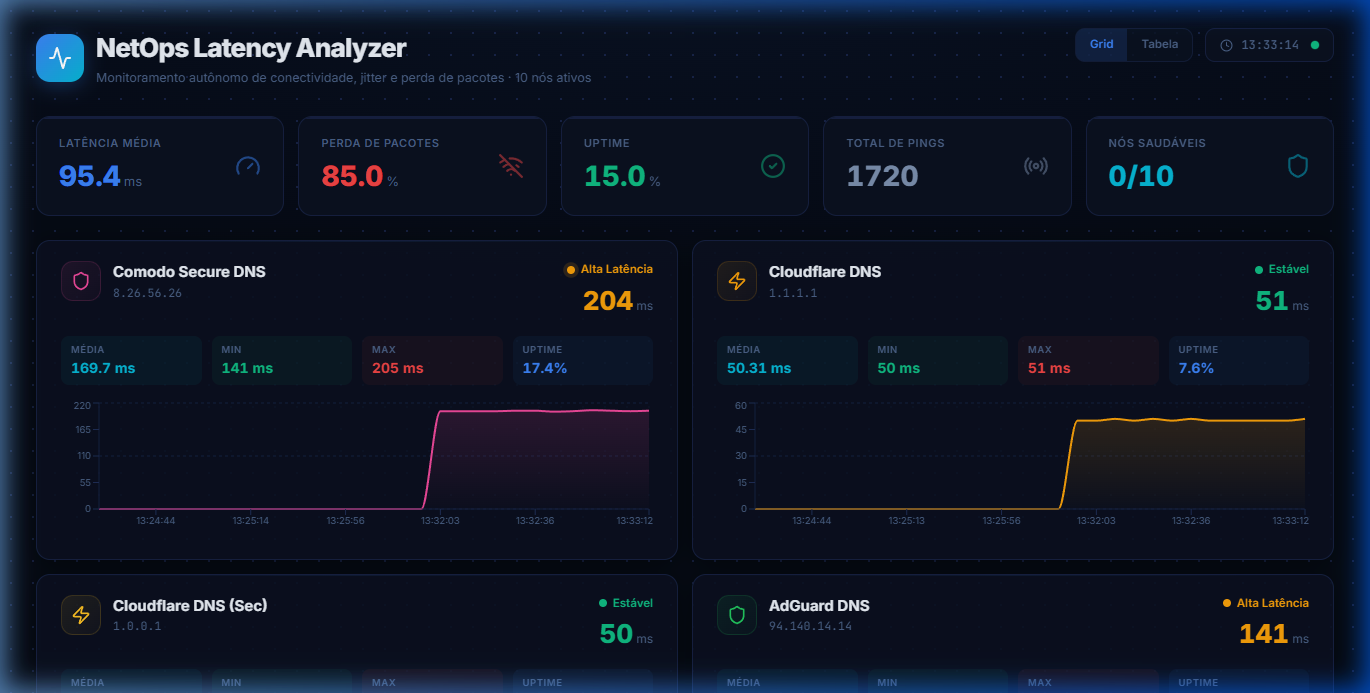
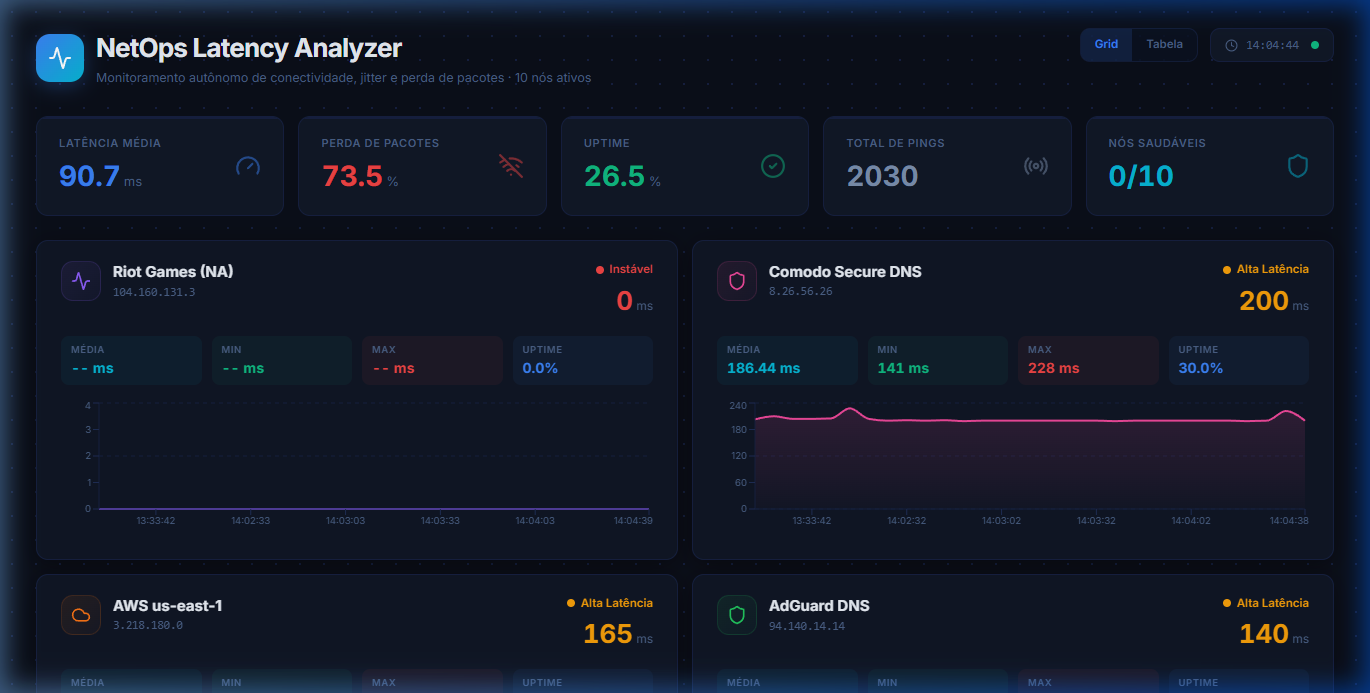
fix: screenshot limpo sem borda de janela

diff --git a/frontend/src/index.css b/frontend/src/index.css
@@ -1,34 +1,37 @@
-@import url('https://fonts.googleapis.com/css2?family=Inter:wght@300;400;500;600;700;800;900&family=JetBrains+Mono:wght@400;500;600&display=swap');
+@import url('https://fonts.googleapis.com/css2?family=Roboto+Mono:wght@400;500;600&family=Inter:wght@400;500;600;700&display=swap');
 @import "tailwindcss";
 
 /* ===========================================
-   NetOps Latency Analyzer — "Mission Control" Design System
-   Deep blue cybernetic monitoring, inspired by Datadog & Grafana
+   NetOps Latency Analyzer — "Beautifully Human" Monitoring Tool
+   Premium, data-dense, crisp typography, inspired by high-end dev tools
    =========================================== */
 
 @theme {
-  --color-bg: #050a14;
-  --color-panel: #0a1120;
-  --color-panel-hover: #0f1830;
-  --color-surface: #111d33;
+  --color-bg: #0b0f19;
+  /* Deep cool dark */
+  --color-panel: #111827;
+  --color-panel-elevated: #1f2937;
+
   --color-border: #162040;
   --color-border-hover: #1e2d55;
-  --color-text-main: #e8edf5;
-  --color-text-muted: #7b8fad;
-  --color-text-subtle: #4a6085;
+
+  --color-text-main: #f8fafc;
+  --color-text-muted: #94a3b8;
+  --color-text-subtle: #64748b;
+
   --color-accent: #3b82f6;
-  --color-accent-soft: rgba(59, 130, 246, 0.12);
-  --color-cyan: #06b6d4;
-  --color-cyan-soft: rgba(6, 182, 212, 0.1);
+  --color-accent-soft: rgba(59, 130, 246, 0.15);
+
   --color-success: #10b981;
-  --color-success-soft: rgba(16, 185, 129, 0.1);
   --color-warning: #f59e0b;
-  --color-warning-soft: rgba(245, 158, 11, 0.1);
   --color-danger: #ef4444;
-  --color-danger-soft: rgba(239, 68, 68, 0.1);
 }
 
-* { margin: 0; padding: 0; box-sizing: border-box; }
+* {
+  margin: 0;
+  padding: 0;
+  box-sizing: border-box;
+}
 
 body {
   font-family: 'Inter', -apple-system, sans-serif;
@@ -38,105 +41,181 @@ body {
   min-height: 100vh;
 }
 
-.font-mono { font-family: 'JetBrains Mono', monospace; }
+.font-mono {
+  font-family: 'Roboto Mono', monospace;
+}
 
-::-webkit-scrollbar { width: 6px; height: 6px; }
-::-webkit-scrollbar-track { background: transparent; }
-::-webkit-scrollbar-thumb { background: var(--color-border); border-radius: 3px; }
-::-webkit-scrollbar-thumb:hover { background: var(--color-border-hover); }
+/* --- Scrollbar --- */
+::-webkit-scrollbar {
+  width: 6px;
+  height: 6px;
+}
 
-/* Background */
+::-webkit-scrollbar-track {
+  background: transparent;
+}
+
+::-webkit-scrollbar-thumb {
+  background: var(--color-border);
+  border-radius: 3px;
+}
+
+::-webkit-scrollbar-thumb:hover {
+  background: var(--color-border-hover);
+}
+
+/* ===========================================
+   LAYOUT & CARDS
+   =========================================== */
+
 .bg-grid {
-  background-image:
-    radial-gradient(ellipse 80% 40% at 50% 0%, rgba(59,130,246,0.06), transparent),
-    radial-gradient(var(--color-border) 1px, transparent 1px);
-  background-size: 100% 100%, 22px 22px;
-  background-attachment: fixed;
+  /* Subtle dot pattern for a technical feel */
+  background-image: radial-gradient(var(--color-border) 1px, transparent 1px);
+  background-size: 24px 24px;
 }
 
-/* Animations */
-@keyframes fadeUp { 0% { opacity: 0; transform: translateY(12px); } 100% { opacity: 1; transform: translateY(0); } }
-@keyframes pulseG { to { box-shadow: 0 0 0 6px rgba(16,185,129,0); } }
-@keyframes pulseA { to { box-shadow: 0 0 0 6px rgba(245,158,11,0); } }
-@keyframes pulseR { to { box-shadow: 0 0 0 6px rgba(239,68,68,0); } }
-@keyframes spin { to { transform: rotate(360deg); } }
-
-.fade-in { animation: fadeUp 0.5s cubic-bezier(0.16,1,0.3,1) forwards; }
-.pulse-green { box-shadow: 0 0 0 0 rgba(16,185,129,0.4); animation: pulseG 2s infinite cubic-bezier(0.66,0,0,1); }
-.pulse-amber { box-shadow: 0 0 0 0 rgba(245,158,11,0.4); animation: pulseA 2s infinite cubic-bezier(0.66,0,0,1); }
-.pulse-red { box-shadow: 0 0 0 0 rgba(239,68,68,0.4); animation: pulseR 2s infinite cubic-bezier(0.66,0,0,1); }
-
-.spinner {
-  width: 36px; height: 36px;
-  border: 3px solid var(--color-border);
-  border-top-color: var(--color-accent);
-  border-radius: 50%;
-  animation: spin 0.8s linear infinite;
-}
-
-/* Cards */
 .glass-card {
-  background: rgba(10,17,32,0.85);
+  background: rgba(17, 24, 39, 0.85);
   backdrop-filter: blur(12px);
+  -webkit-backdrop-filter: blur(12px);
   border: 1px solid var(--color-border);
-  border-radius: 14px;
-  box-shadow: 0 4px 24px -4px rgba(0,0,0,0.5);
-  transition: all 0.25s ease;
-  position: relative;
-  overflow: hidden;
-}
-.glass-card::before {
-  content: '';
-  position: absolute; top: 0; left: 0; right: 0; height: 1px;
-  background: linear-gradient(90deg, transparent, rgba(59,130,246,0.1), transparent);
-}
-.glass-card:hover {
-  border-color: var(--color-border-hover);
-  transform: translateY(-2px);
-  box-shadow: 0 12px 40px -8px rgba(0,0,0,0.5);
+  border-radius: 12px;
+  box-shadow: 0 4px 24px -4px rgba(0, 0, 0, 0.5);
 }
 
 .stat-card {
   background: var(--color-panel);
   border: 1px solid var(--color-border);
-  border-radius: 14px;
-  position: relative; overflow: hidden;
-  transition: all 0.25s ease;
+  border-radius: 12px;
+  position: relative;
+  overflow: hidden;
+  transition: all 0.2s ease;
 }
+
+.stat-card:hover {
+  border-color: var(--color-border-hover);
+  transform: translateY(-2px);
+  box-shadow: 0 8px 32px rgba(0, 0, 0, 0.4);
+}
+
+/* Subtle top accent line for stat cards */
 .stat-card::before {
-  content: ''; position: absolute; top: 0; left: 0; right: 0; height: 2px;
-  background: var(--color-border); transition: background 0.2s;
-}
-.stat-card:hover { border-color: var(--color-border-hover); transform: translateY(-2px); box-shadow: 0 8px 32px rgba(0,0,0,0.4); }
-.stat-card:hover::before { background: var(--color-accent); }
-
-/* Recharts */
-.recharts-cartesian-grid-horizontal line, .recharts-cartesian-grid-vertical line { stroke: var(--color-border) !important; }
-.recharts-tooltip-wrapper { outline: none; }
-
-/* Status health bar */
-.health-bar {
-  height: 4px; border-radius: 2px; overflow: hidden;
+  content: '';
+  position: absolute;
+  top: 0;
+  left: 0;
+  right: 0;
+  height: 2px;
   background: var(--color-border);
-}
-.health-fill {
-  height: 100%; border-radius: 2px;
-  transition: width 0.6s cubic-bezier(0.16,1,0.3,1);
+  transition: background 0.2s ease;
 }
 
-/* Summary table */
-.summary-table {
-  width: 100%; border-collapse: collapse; font-size: 0.78rem;
+.stat-card:hover::before {
+  background: var(--color-accent);
 }
-.summary-table th {
-  text-align: left; padding: 10px 16px; font-size: 0.65rem;
-  text-transform: uppercase; letter-spacing: 0.06em;
-  color: var(--color-text-subtle); font-weight: 600;
-  border-bottom: 1px solid var(--color-border);
+
+/* ===========================================
+   TYPOGRAPHY & UTILS
+   =========================================== */
+
+.text-gradient {
+  background-clip: text;
+  -webkit-background-clip: text;
+  color: transparent;
 }
-.summary-table td {
-  padding: 12px 16px; border-bottom: 1px solid rgba(22,32,64,0.5);
-  color: var(--color-text-main);
+
+/* Status dots - refined pulse */
+.pulse-green {
+  background: var(--color-success) !important;
+  box-shadow: 0 0 0 0 rgba(16, 185, 129, 0.4) !important;
+  animation: pulse-g 2s infinite cubic-bezier(0.66, 0, 0, 1) !important;
 }
-.summary-table tr { transition: background 0.15s; }
-.summary-table tr:hover { background: var(--color-panel-hover); }
+
+@keyframes pulse-g {
+  to {
+    box-shadow: 0 0 0 6px rgba(16, 185, 129, 0);
+  }
+}
+
+.pulse-amber {
+  background: var(--color-warning) !important;
+  box-shadow: 0 0 0 0 rgba(245, 158, 11, 0.4) !important;
+  animation: pulse-a 2s infinite cubic-bezier(0.66, 0, 0, 1) !important;
+}
+
+@keyframes pulse-a {
+  to {
+    box-shadow: 0 0 0 6px rgba(245, 158, 11, 0);
+  }
+}
+
+.pulse-red {
+  background: var(--color-danger) !important;
+  box-shadow: 0 0 0 0 rgba(239, 68, 68, 0.4) !important;
+  animation: pulse-r 2s infinite cubic-bezier(0.66, 0, 0, 1) !important;
+}
+
+@keyframes pulse-r {
+  to {
+    box-shadow: 0 0 0 6px rgba(239, 68, 68, 0);
+  }
+}
+
+/* Remove glow classes text-shadow overrides from App.jsx by forcing none here */
+.glow-blue {
+  color: var(--color-accent);
+  text-shadow: none !important;
+}
+
+.glow-green {
+  color: var(--color-success);
+  text-shadow: none !important;
+}
+
+.glow-amber {
+  color: var(--color-warning);
+  text-shadow: none !important;
+}
+
+.glow-red {
+  color: var(--color-danger);
+  text-shadow: none !important;
+}
+
+/* ===========================================
+   RECHARTS OVERRIDES (Premium Tooltip & Grid)
+   =========================================== */
+
+.recharts-cartesian-grid-horizontal line,
+.recharts-cartesian-grid-vertical line {
+  stroke: var(--color-border) !important;
+  stroke-dasharray: 4 4 !important;
+}
+
+.recharts-tooltip-wrapper {
+  outline: none;
+}
+
+.recharts-default-tooltip {
+  background-color: var(--color-panel-elevated) !important;
+  border: 1px solid var(--color-border) !important;
+  border-radius: 8px !important;
+  box-shadow: 0 10px 25px -5px rgba(0, 0, 0, 0.5) !important;
+  padding: 12px 16px !important;
+}
+
+.recharts-tooltip-label {
+  color: var(--color-text-muted) !important;
+  font-family: 'Roboto Mono', monospace !important;
+  font-size: 0.75rem !important;
+  margin-bottom: 8px !important;
+  text-transform: uppercase;
+}
+
+.recharts-tooltip-item {
+  color: var(--color-text-main) !important;
+  font-family: 'Inter', sans-serif !important;
+  font-weight: 500 !important;
+  font-size: 0.875rem !important;
+  padding: 2px 0 !important;
+}